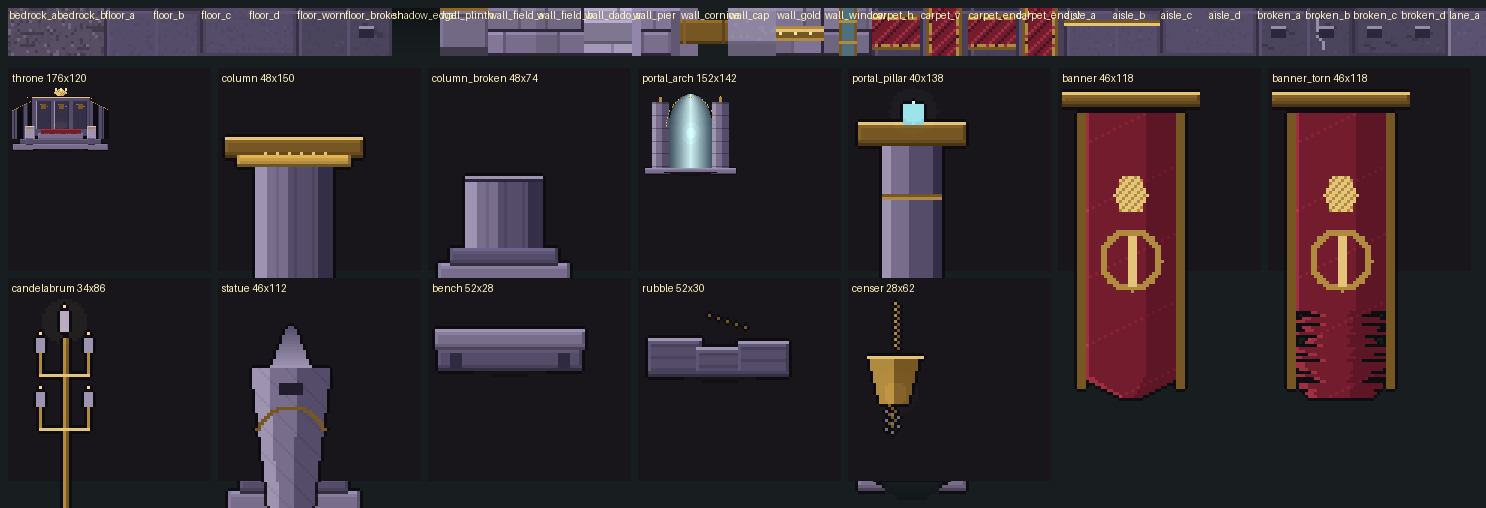
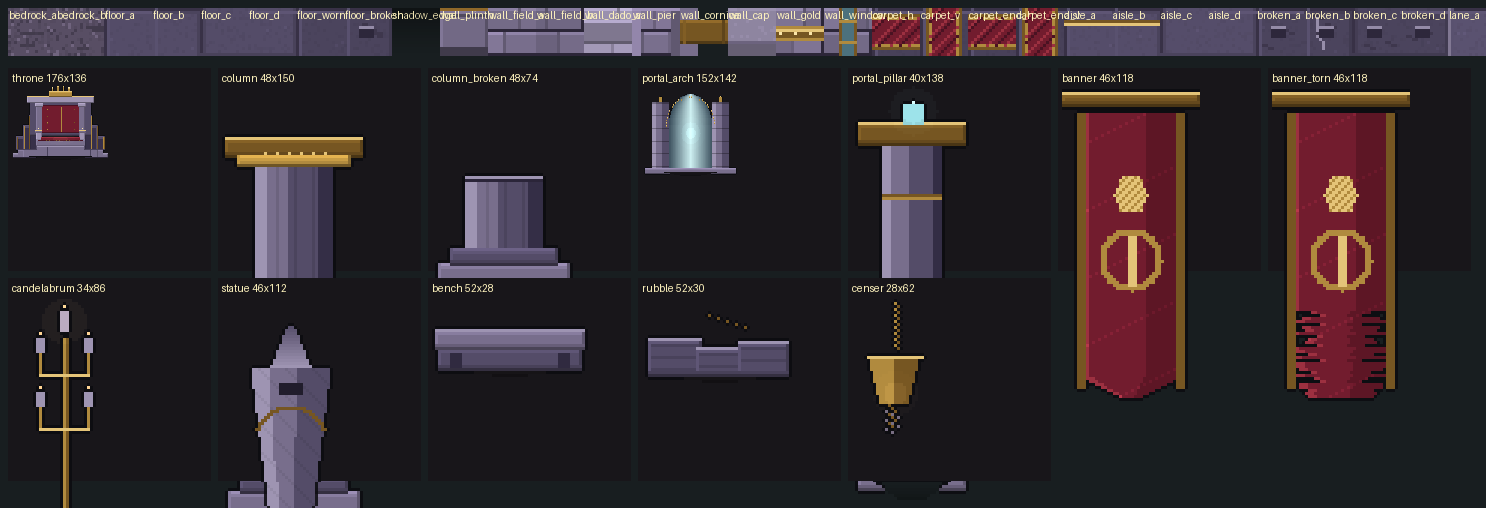
fix(chapter1-l10): rebuild the Castellan's throne as masses, not hairlines
The throne was the level's hero object and read as a small sofa in front of a
black hatched fence. Its 'canopy fins' were twenty-two one-pixel columns two
pixels apart; at gameplay zoom they averaged into a moire wash that swallowed
the seat, and the crown floated a cell above the lintel it was supposed to rest
on. The dais, the seat and the arms were all smaller than the masses around
them, so the eye had nothing to land on.

Rebuilt out of five readable weights: a three-step dais, two winged buttresses
that step outward of the back slab (so their silhouette reads against the hall),
a back framed by pilasters around a crimson field, a seat that projects past the
back with arms and gold finials, and a crown that sits on the lintel. Every mass
is at least three cells across and carries one gold fillet rather than a dozen
lines. The warm pool on the cushion is kept, so the eye lands on the seat first.

No gameplay data changed: this is kit art only.

Changed region(s): [[0.0, 0.1476, 0.0929, 0.3248]]

diff --git a/tools/level10/art_castellan.py b/tools/level10/art_castellan.py
@@ -193,67 +193,119 @@ def wall_window():
 
 # --- props -----------------------------------------------------------------
 def prop_throne(seed: int = 1):
-    """The Castellan's seat: colossal by width, built out of four big shapes.
+    """The Castellan's seat: a monument built out of five masses, not a chair.
 
-    A small, detailed throne reads as furniture. This one is a back, two fins, a
-    seat and two arms, each of them at least two cells across, so it is legible
-    from the far end of the arena at gameplay zoom.
+    The previous version tried to do this with fine detail - three carved panels, a
+    gold crest, and a pair of "canopy fins" that were twenty-two one-pixel columns
+    two pixels apart. At gameplay zoom those columns averaged into a moire wash
+    behind the seat, so the largest object in the hall read as a hatched rectangle
+    with a small chair in front of it. That is the same mistake as the chapter's
+    hairline floor motifs: a monument described by lines instead of weights.
+
+    So the throne is built the way a monument is: a dais of three steps, two solid
+    winged buttresses that step down and outward, a back slab framed by pilasters
+    with a crimson field between them, a seat that projects past the back, arms with
+    gold finials, and a crown that rests on the crest rather than floating over it.
+    Every mass is at least three cells across, so each survives being four times
+    smaller than this file draws it.
     """
-    w, h = 176, 120
+    w, h = 176, 136
     img = new(w, h)
     cx = w // 2
-    base_y = h - 3
-    # platform: two steps under the seat
-    block(img, 2, base_y - 12, w - 4, 12, MARBLE_LIGHT, bevel=2)
-    block(img, 14, base_y - 20, w - 28, 9, MARBLE_BASE, bevel=1)
-    hline(img, 14, base_y - 21, w - 28, MARBLE_PALE)
-    # the canopy fins: two swept horns rising from the back corners
+    base_y = h - 4          # the dais foot sits on the cell floor
+
+    # --- dais: three steps, widest at the foot ------------------------------
+    steps = ((0, base_y - 8, 172), (8, base_y - 15, 156), (18, base_y - 21, 136))
+    for inset, top, width in steps:
+        x0 = (w - width) // 2
+        block(img, x0, top, width, base_y - top, MARBLE_LIGHT, bevel=2)
+        hline(img, x0, top, width, MARBLE_PALE)
+        hline(img, x0, base_y - 1, width, JOINT)
+        # tread joints, so the steps read as cut stone and not as a plinth
+        for x in range(x0 + 18, x0 + width - 12, 26):
+            vline(img, x, top + 2, base_y - top - 3, shade(MARBLE_BASE, 0.88))
+
+    seat_top = base_y - 21
+    # --- winged buttresses: three stepped masses each, sweeping outward ------
+    # They sit *outboard* of the back slab, so their stepped silhouette is visible
+    # against the hall instead of being swallowed by it. The first version buried
+    # them behind the back and all that survived was two thin gold strips.
     for side in (-1, 1):
-        for i in range(22):
-            x = cx + side * (52 + i * 2)
-            if not (0 <= x < w):
-                continue
-            top = 26 + i
-            for y in range(top, base_y - 20):
-                px(img, x, y, MARBLE_BASE if i % 4 else MARBLE_DARK)
-                px(img, x, y, MARBLE_BASE) if False else None
-            hline(img, x, top, 2, GOLD)
-        for i in range(5):
-            px(img, cx + side * (52 + i * 2), 24 - i, GOLD_LIGHT)
-    # the back: one slab, three carved panels, a gold rim
-    back_x, back_w, back_top = cx - 52, 105, 20
-    block(img, back_x, back_top, back_w, base_y - 26 - back_top, MARBLE_BASE, bevel=2)
-    for panel in range(3):
-        px0 = back_x + 8 + panel * 33
-        rect(img, px0, back_top + 8, 26, base_y - 46 - back_top, shade(MARBLE_DARK, 1.12))
-        vline(img, px0, back_top + 8, base_y - 46 - back_top, MARBLE_PALE)
-        vline(img, px0 + 25, back_top + 8, base_y - 46 - back_top, JOINT)
-        for i in range(20):
-            px(img, px0 + 4 + i, back_top + 12 + i // 3, MARBLE_LIGHT)
-        rect(img, px0 + 9, back_top + 12, 9, 9, GOLD_DARK)
-        px(img, px0 + 13, back_top + 14, GOLD_LIGHT)
-    hline(img, back_x, back_top, back_w, GOLD_LIGHT)
-    hline(img, back_x, back_top + 1, back_w, GOLD)
-    # the crest: a gold crown above the middle panel
-    for i in range(13):
-        half = int(13 - abs(6 - i) * 1.4)
-        for x in range(cx - half, cx + half):
-            px(img, x, 6 + i, GOLD_LIGHT if (x + i) % 4 else GOLD)
-    for dx in (-9, 0, 9):
-        rect(img, cx + dx - 1, 4, 3, 5, GOLD_PALE)
-    # arms: two thick blocks with gold knobs
+        for reach, drop, thick in ((80, 20, 24), (68, 40, 20), (58, 58, 16)):
+            x_edge = cx + side * reach
+            x_in = x_edge - side * thick
+            x0, x1 = sorted((x_in, x_edge))
+            top = seat_top - drop
+            block(img, x0, top, x1 - x0, base_y - 14 - top, MARBLE_BASE, bevel=2)
+            hline(img, x0, top, x1 - x0, MARBLE_PALE)
+            # gold fillet down the outer edge: the only ornament on the mass
+            vline(img, x_edge - side, top + 2, base_y - 18 - top, GOLD_DARK)
+            vline(img, x_edge - side * 2, top + 2, base_y - 18 - top, GOLD)
+            # a carved panel sunk into the face of each mass
+            panel_w = (x1 - x0) - 6
+            if panel_w > 6:
+                rect(img, x0 + 3, top + 6, panel_w, base_y - 22 - top, shade(MARBLE_DARK, 1.15))
+                hline(img, x0 + 3, top + 6, panel_w, JOINT)
+                vline(img, x0 + 3, top + 6, base_y - 22 - top, MARBLE_DARK)
+
+    # --- back: two pilasters carrying a lintel, crimson field between -------
+    back_top = seat_top - 92
+    lintel_y = back_top
+    outer = 56
+    # The back stops above the seat. Running it down to the dais hid the cushion
+    # behind the same crimson as the field, and the seat - the thing a throne is -
+    # disappeared into its own back.
+    back_bottom = seat_top - 20
+    block(img, cx - outer, lintel_y + 10, outer * 2, back_bottom - lintel_y - 10, MARBLE_BASE, bevel=2)
+    # the crimson field, inset behind the pilasters
+    field_x, field_w = cx - 44, 88
+    rect(img, field_x, lintel_y + 16, field_w, back_bottom - lintel_y - 20, CARPET_DARK)
+    rect(img, field_x + 2, lintel_y + 18, field_w - 4, back_bottom - lintel_y - 24, CARPET)
+    # a gold spine and studs: enough to read as tooled leather at native scale
+    vline(img, cx, lintel_y + 20, back_bottom - lintel_y - 26, GOLD_DARK)
+    vline(img, cx + 1, lintel_y + 20, back_bottom - lintel_y - 26, GOLD)
+    for y in range(lintel_y + 24, back_bottom - 8, 12):
+        for side in (-1, 1):
+            px(img, cx + side * 24, y, GOLD)
+            px(img, cx + side * 24 + 1, y, GOLD_DARK)
+            px(img, cx + side * 24, y + 1, GOLD_DARK)
+    # pilasters either side of the field, with capitals and bases
     for side in (-1, 1):
-        x = cx + side * 56
-        block(img, x - 8, base_y - 44, 17, 24, MARBLE_PALE, bevel=2)
-        rect(img, x - 6, base_y - 42, 13, 4, GOLD)
-        block(img, x - 6, base_y - 22, 13, 12, MARBLE_BASE, bevel=1)
-    # seat and its crimson cushion
-    block(img, cx - 40, base_y - 32, 81, 12, MARBLE_LIGHT, bevel=2)
-    rect(img, cx - 36, base_y - 38, 73, 8, CARPET)
-    hline(img, cx - 36, base_y - 38, 73, CARPET_LIGHT)
-    for x in range(cx - 34, cx + 35, 4):
-        px(img, x, base_y - 31, GOLD_DARK)
-    glow(img, cx, base_y - 46, 34, 20, CANDLE, 40, steps=3)
+        x0 = cx + side * 44 - (11 if side > 0 else 0)
+        block(img, x0, lintel_y + 12, 11, back_bottom - lintel_y - 6, MARBLE_LIGHT, bevel=1)
+        block(img, x0 - 2, lintel_y + 12, 15, 7, MARBLE_PALE, bevel=1)
+        hline(img, x0 - 2, lintel_y + 12, 15, GOLD)
+    # lintel and crest
+    block(img, cx - outer - 4, lintel_y, (outer + 4) * 2, 12, MARBLE_PALE, bevel=2)
+    hline(img, cx - outer - 4, lintel_y, (outer + 4) * 2, GOLD_LIGHT)
+    hline(img, cx - outer - 4, lintel_y + 1, (outer + 4) * 2, GOLD)
+    # the crown rests on the lintel: a band, three points and a jewel
+    band_y = lintel_y - 9
+    block(img, cx - 20, band_y, 41, 10, GOLD, bevel=1)
+    hline(img, cx - 20, band_y, 41, GOLD_LIGHT)
+    for dx, tall in ((-16, 7), (-6, 11), (4, 11), (14, 7)):
+        for i in range(tall):
+            hline(img, cx + dx, band_y - 1 - i, 3, GOLD_LIGHT if i > tall - 3 else GOLD)
+        hline(img, cx + dx, band_y - tall - 1, 3, GOLD_PALE)
+    px(img, cx, band_y + 4, CARPET_LIGHT)
+    px(img, cx + 1, band_y + 4, CARPET_DARK)
+
+    # --- seat, cushion and arms --------------------------------------------
+    block(img, cx - 44, seat_top - 12, 89, 12, MARBLE_LIGHT, bevel=2)
+    rect(img, cx - 40, seat_top - 17, 81, 7, CARPET)
+    hline(img, cx - 40, seat_top - 17, 81, CARPET_LIGHT)
+    hline(img, cx - 40, seat_top - 11, 81, CARPET_DARK)
+    for x in range(cx - 38, cx + 39, 6):
+        px(img, x, seat_top - 11, GOLD_DARK)
+    for side in (-1, 1):
+        x0 = cx + side * 44 - (9 if side > 0 else 0)
+        block(img, x0, seat_top - 26, 9, 15, MARBLE_PALE, bevel=1)
+        block(img, x0 - 2, seat_top - 30, 13, 6, MARBLE_LIGHT, bevel=1)
+        hline(img, x0 - 2, seat_top - 30, 13, GOLD_LIGHT)
+        px(img, x0 + 4, seat_top - 33, GOLD_PALE)
+
+    # a warm pool on the cushion, so the eye lands on the seat first
+    glow(img, cx, seat_top - 14, 40, 16, CANDLE, 46, steps=3)
     return finish(img)
 
 
